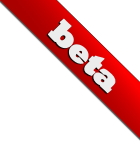
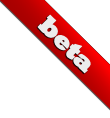
Beta Badge etwas verkleinert
und die Anzeige der aktuellen Webseite im Hauptmenu eingerichtet.

diff --git a/app/assets/stylesheets/main.css b/app/assets/stylesheets/main.css
@@ -14,7 +14,7 @@ body > header { min-width: 760px; height: 100px; }
 .ym-column { 
   display: block;
   overflow: hidden;
-  padding-right: 300px; /* column width */
+  padding-right: 338px; /* column width */
   width: auto;
 }
 .ym-col1 {  /* content */
@@ -25,8 +25,8 @@ body > header { min-width: 760px; height: 100px; }
 .ym-col3 { /* sidebar */
   position: relative;
   float: left;
-  width: 300px; /* column width */
-  margin: 0 -300px 0 0;
+  width: 338px; /* column width */
+  margin: 0 -338px 0 0;
 }
 
 body { background: #ddd; }
@@ -83,8 +83,8 @@ header h1 span {
 
 #beta-badge {
   position: fixed;
+  z-index: 100;
   right: 0px;
   top: 0px;
-  z-index: 100;
   border: none;
 }

diff --git a/app/helpers/application_helper.rb b/app/helpers/application_helper.rb
@@ -17,7 +17,11 @@ module ApplicationHelper
 
   # Page Menu yellow background on active pages
   def is_active?(page_name)
-    "active" if params[:controller] == page_name #|| params[:action] == page_name
+    if params[:controller] == 'home'
+      "active" if params[:action] == page_name
+    else
+      "active" if params[:controller] == page_name
+    end
   end
 
 end
